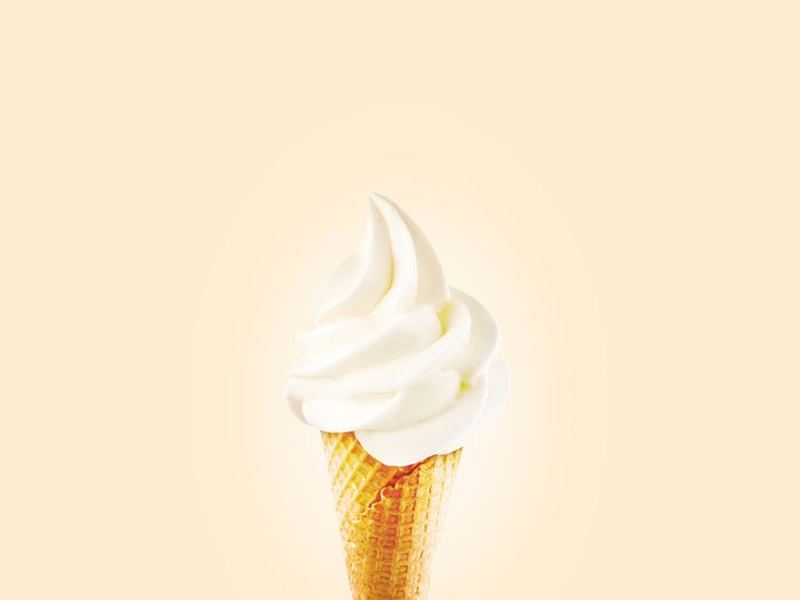
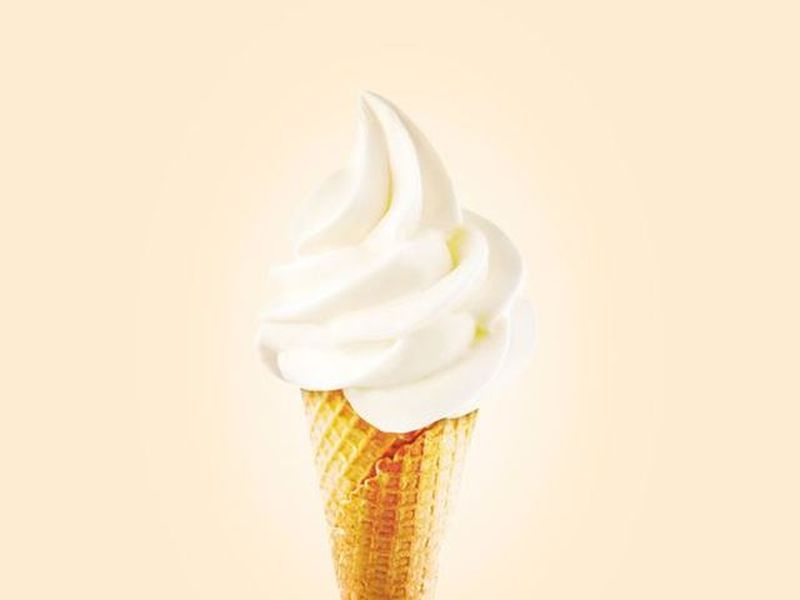
fix: ajustes de layout pedidos pelo usuario
- Cards do cardapio: corpo do card agora usa flex:1 (com align-items:
  stretch no grid), entao todos ficam com a mesma altura na linha e o
  botao "Adicionar" alinha na base, independente do tamanho da
  descricao -- antes cards com descricao curta (ex: Casquinha de
  Baunilha) ficavam visivelmente menores que os outros.
- Carrossel de ofertas: movido pra fora do <main> (que tem max-width de
  960px) pra ocupar quase a largura inteira da tela, com imagem e texto
  maiores.
- Hover nos cards do cardapio: troca o simples deslocamento pra cima
  por um scale (estilo "cresce" ao passar o mouse).
- Foto da Casquinha de Baunilha recortada mais de perto -- a original
  tinha fundo bege demais ao redor do sorvete, fazendo parecer menor
  que as outras fotos mesmo com a mesma caixa 800x600.

diff --git a/frontend/styles.css b/frontend/styles.css
@@ -105,13 +105,21 @@ h2 { border-bottom: 2px solid var(--line); padding-bottom: 4px; font-size: 1.2re
   border-bottom-color: var(--accent);
 }
 
+#secao-ofertas {
+  padding: 20px 24px 0;
+}
+#secao-ofertas h2 {
+  max-width: 1600px;
+  margin: 0 auto;
+}
 .carrossel {
   position: relative;
   overflow: hidden;
   border-radius: 14px;
   background: var(--surface);
   border: 1px solid var(--line);
-  margin: 10px 0 20px;
+  max-width: 1600px;
+  margin: 10px auto 20px;
 }
 .carrossel-trilha {
   display: flex;
@@ -121,22 +129,26 @@ h2 { border-bottom: 2px solid var(--line); padding-bottom: 4px; font-size: 1.2re
   min-width: 100%;
   display: flex;
   align-items: center;
-  gap: 16px;
-  padding: 16px;
+  justify-content: center;
+  gap: 32px;
+  padding: 32px 64px;
 }
 .carrossel-slide img {
-  width: 140px;
-  height: 140px;
+  width: 220px;
+  height: 220px;
   object-fit: cover;
-  border-radius: 10px;
+  border-radius: 12px;
   flex-shrink: 0;
 }
 .carrossel-info {
   display: flex;
   flex-direction: column;
-  gap: 6px;
+  gap: 8px;
   align-items: flex-start;
 }
+.carrossel-info strong { font-size: 1.6rem; }
+.carrossel-info .preco-riscado { font-size: 1rem; }
+.carrossel-info .preco { font-size: 1.3rem; }
 .carrossel-seta {
   position: absolute;
   top: 50%;
@@ -195,6 +207,7 @@ h2 { border-bottom: 2px solid var(--line); padding-bottom: 4px; font-size: 1.2re
 .cards {
   display: grid;
   grid-template-columns: repeat(auto-fill, minmax(220px, 1fr));
+  align-items: stretch;
   gap: 16px;
 }
 .card {
@@ -208,13 +221,15 @@ h2 { border-bottom: 2px solid var(--line); padding-bottom: 4px; font-size: 1.2re
   transition: transform 0.15s ease, box-shadow 0.15s ease;
 }
 .card:hover, .card:focus-within {
-  transform: translateY(-3px);
-  box-shadow: 0 6px 16px rgba(43, 36, 32, 0.14);
+  transform: translateY(-4px) scale(1.035);
+  box-shadow: 0 10px 22px rgba(43, 36, 32, 0.18);
+  z-index: 1;
 }
 .card-body {
   padding: 10px 12px 12px;
   display: flex;
   flex-direction: column;
+  flex: 1;
   gap: 6px;
 }
 .card-body strong { font-size: 1.05rem; }
@@ -284,8 +299,14 @@ th { background: #F6F0E2; font-family: "Fraunces", serif; font-weight: 600; }
   table, thead, tbody, th, td, tr { display: block; }
   thead { display: none; }
   td { border: 0; border-bottom: 1px solid var(--line); }
-  .carrossel-slide { flex-direction: column; align-items: flex-start; }
-  .carrossel-slide img { width: 100%; height: 160px; }
+  .carrossel-slide {
+    flex-direction: column;
+    align-items: flex-start;
+    padding: 16px;
+    gap: 12px;
+  }
+  .carrossel-slide img { width: 100%; height: 180px; }
+  #secao-ofertas { padding: 16px 16px 0; }
 }
 
 .card-img {

diff --git a/frontend/index.html b/frontend/index.html
@@ -20,17 +20,17 @@
 
   <div id="aviso" class="aviso" hidden></div>
 
-  <main>
-    <section id="secao-ofertas" hidden>
-      <h2>Ofertas do dia</h2>
-      <div id="carrossel-ofertas" class="carrossel">
-        <button type="button" class="carrossel-seta carrossel-anterior" aria-label="Oferta anterior">‹</button>
-        <div class="carrossel-trilha" id="carrossel-trilha"></div>
-        <button type="button" class="carrossel-seta carrossel-proxima" aria-label="Próxima oferta">›</button>
-        <div class="carrossel-dots" id="carrossel-dots"></div>
-      </div>
-    </section>
+  <section id="secao-ofertas" hidden>
+    <h2>Ofertas do dia</h2>
+    <div id="carrossel-ofertas" class="carrossel">
+      <button type="button" class="carrossel-seta carrossel-anterior" aria-label="Oferta anterior">‹</button>
+      <div class="carrossel-trilha" id="carrossel-trilha"></div>
+      <button type="button" class="carrossel-seta carrossel-proxima" aria-label="Próxima oferta">›</button>
+      <div class="carrossel-dots" id="carrossel-dots"></div>
+    </div>
+  </section>
 
+  <main>
     <section id="secao-cardapio">
       <h2>Cardápio</h2>
       <div id="categoria-tabs" class="categoria-tabs"></div>
